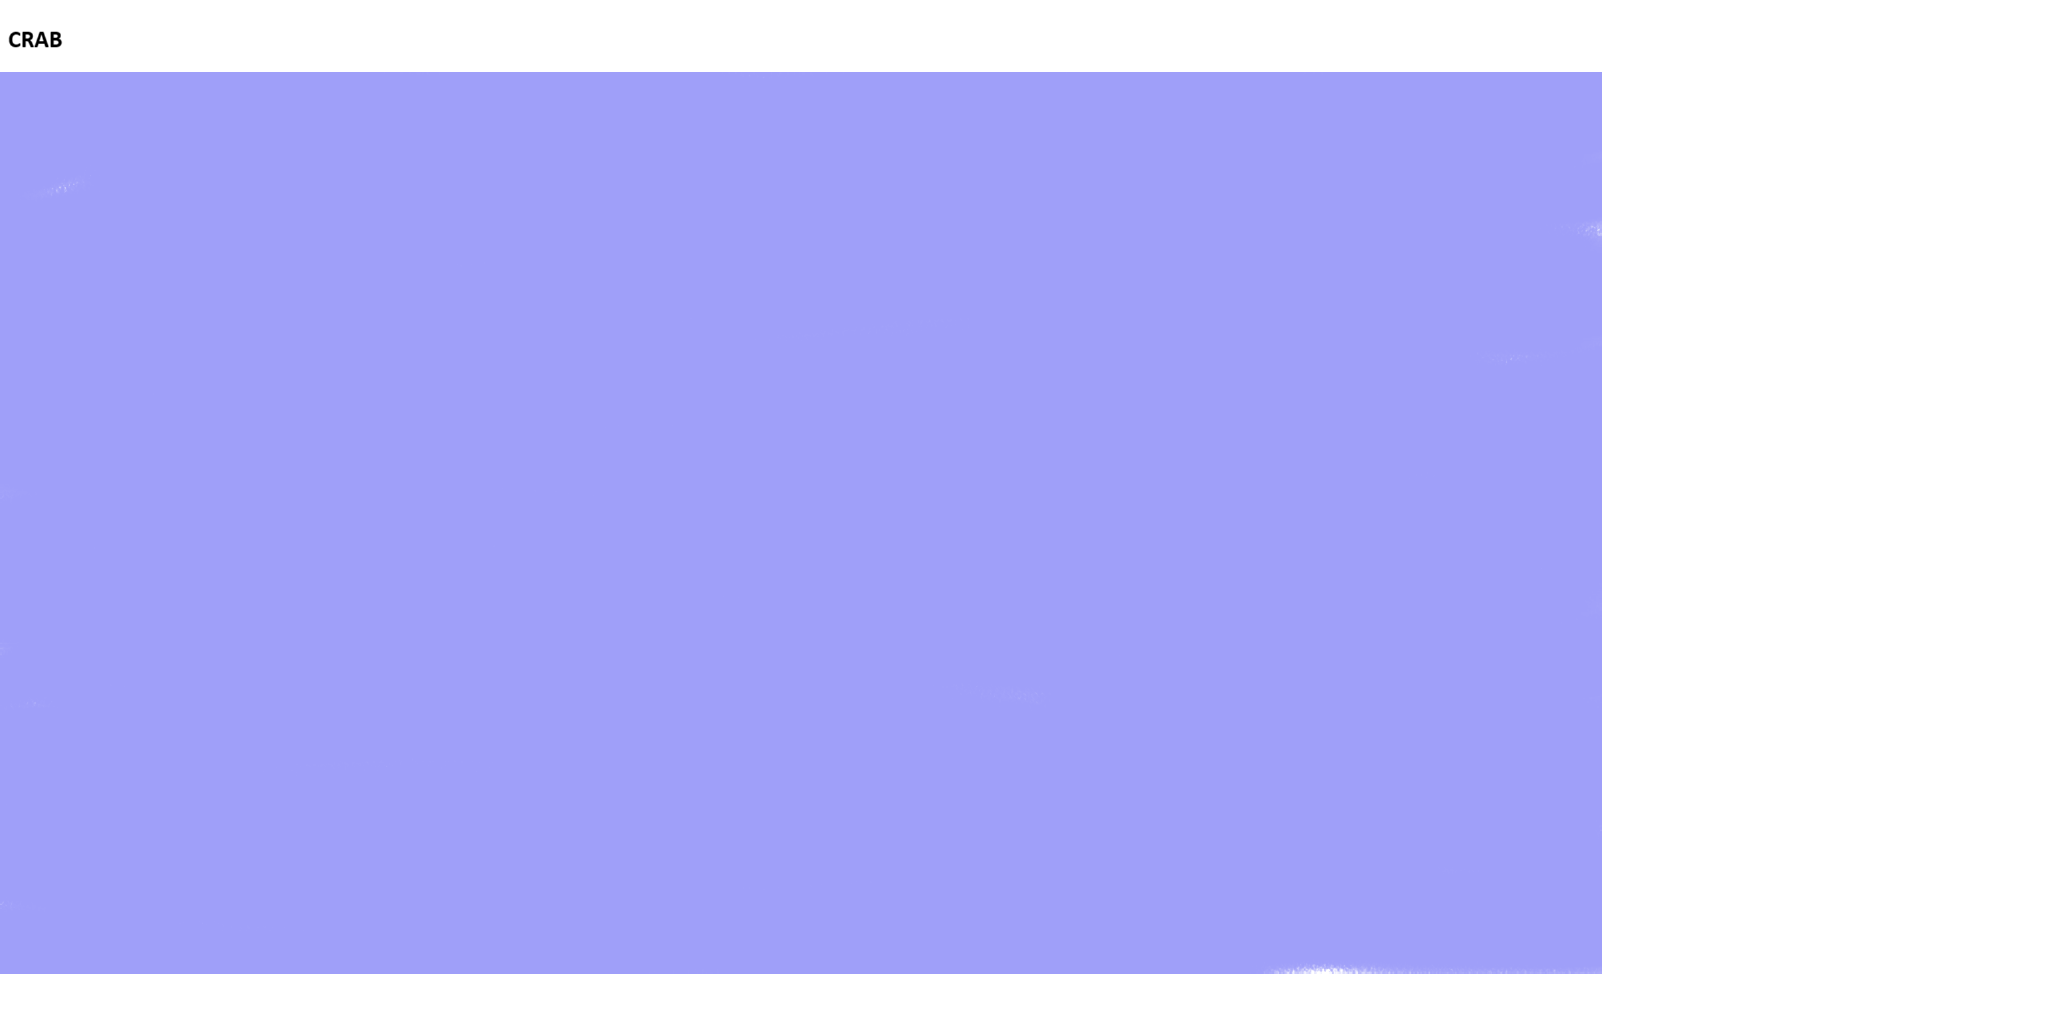
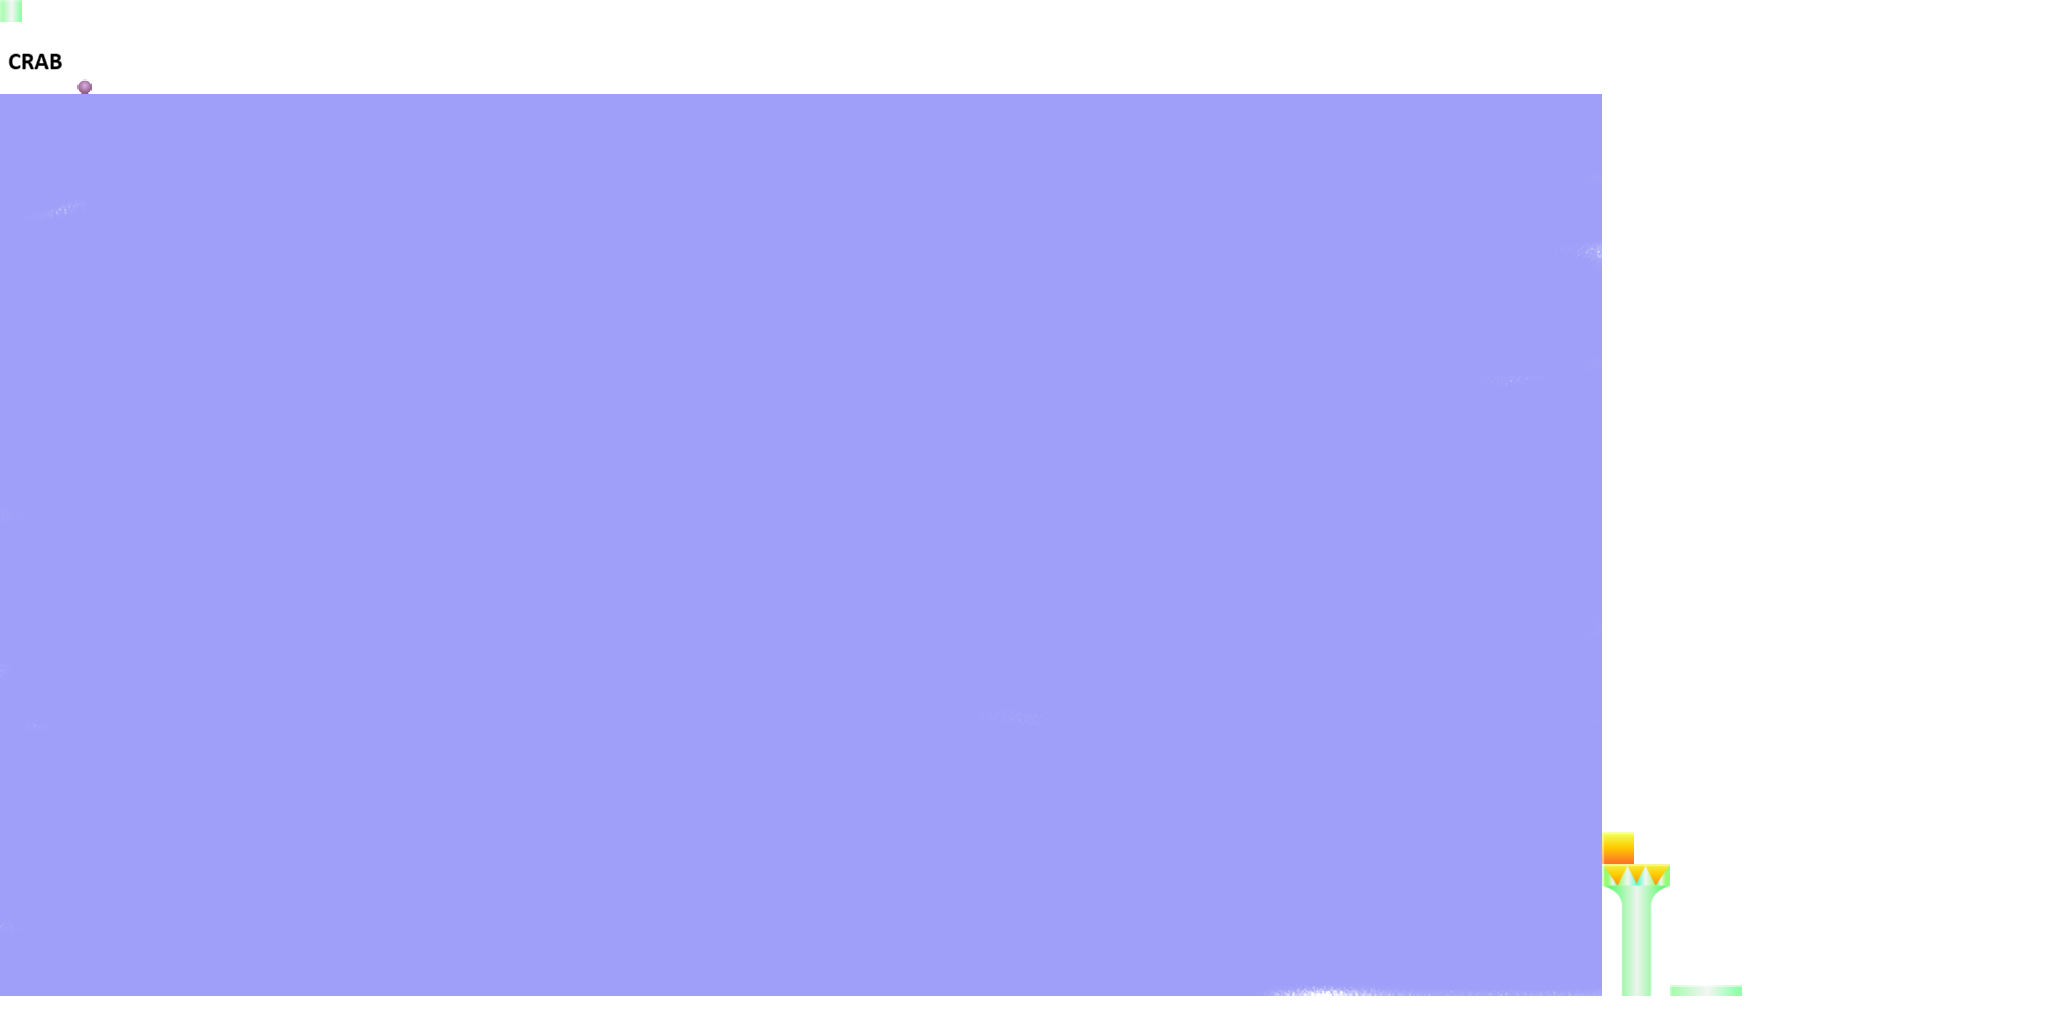
- добавил карту (надо все переделать, сначала выложить картинки, потом объединить в композиты) - добавил анимацию крабика (надо править, есть глюки)

Changed region(s): [[0.0, 0.8125, 0.8438, 1.0], [0.0, 0.0, 0.7812, 0.0938]]

diff --git a/chapter4/core/src/com/packt/flappeebee/screen/level/level1/script/PlayerScript.java b/chapter4/core/src/com/packt/flappeebee/screen/level/level1/script/PlayerScript.java
@@ -1,0 +1,168 @@
+package com.packt.flappeebee.screen.level.level1.script;
+
+import com.artemis.ComponentMapper;
+import com.badlogic.gdx.math.Vector2;
+import com.badlogic.gdx.physics.box2d.Body;
+import com.badlogic.gdx.physics.box2d.Contact;
+import com.badlogic.gdx.physics.box2d.Fixture;
+import com.github.br.gdx.simple.animation.component.SimpleAnimatorUtils;
+import com.github.br.gdx.simple.animation.fsm.FsmContext;
+import com.github.br.simple.input.InputActions;
+import com.packt.flappeebee.action.HeroActions;
+import com.packt.flappeebee.screen.level.level1.systems.components.AnimationComponent;
+import com.packt.flappeebee.screen.level.level1.systems.components.InputComponent;
+import games.rednblack.editor.renderer.components.DimensionsComponent;
+import games.rednblack.editor.renderer.components.MainItemComponent;
+import games.rednblack.editor.renderer.components.TransformComponent;
+import games.rednblack.editor.renderer.components.physics.PhysicsBodyComponent;
+import games.rednblack.editor.renderer.physics.PhysicsContact;
+import games.rednblack.editor.renderer.scripts.BasicScript;
+
+public class PlayerScript extends BasicScript implements PhysicsContact {
+
+    public static final String IDLE = "IDLE";
+    public static final String JUMP = "JUMP";
+    public static final String MOVEMENT = "MOVEMENT";
+    public static final String ATTACK = "ATTACK";
+    public static final String FLY = "FLY";
+
+    protected ComponentMapper<PhysicsBodyComponent> physicsMapper;
+    protected ComponentMapper<TransformComponent> transformMapper;
+    protected ComponentMapper<MainItemComponent> mainItemMapper;
+    protected ComponentMapper<DimensionsComponent> dimensionsMapper;
+
+    protected ComponentMapper<InputComponent> inputMapper;
+    protected ComponentMapper<AnimationComponent> animationMapper;
+
+    private PhysicsBodyComponent physicsBodyComponent;
+
+    private InputComponent inputComponent;
+    private AnimationComponent animationComponent;
+
+    private final Vector2 impulse = new Vector2(0, 0);
+    private final Vector2 speed = new Vector2(0, 0);
+
+
+    @Override
+    public void init(int item) {
+        super.init(item);
+
+        physicsBodyComponent = physicsMapper.get(item);
+        inputComponent = inputMapper.get(item);
+        animationComponent = animationMapper.get(item);
+    }
+
+    @Override
+    public void act(float delta) {
+        Vector2 linearVelocity = physicsBodyComponent.body.getLinearVelocity();
+        FsmContext animationContext = animationComponent.simpleAnimationComponent.fsmContext;
+        InputActions inputActions = inputComponent.inputActions;
+        if (inputActions.getAction(HeroActions.MOVE_LEFT)) {
+            movePlayer(HeroActions.MOVE_LEFT);
+            animationContext.update(MOVEMENT, Math.abs(linearVelocity.x));
+        }
+
+        if (inputActions.getAction(HeroActions.MOVE_RIGHT)) {
+            movePlayer(HeroActions.MOVE_RIGHT);
+            animationContext.update(MOVEMENT, Math.abs(linearVelocity.x));
+        }
+
+        if (inputActions.getAction(HeroActions.JUMP)) {
+            movePlayer(HeroActions.JUMP);
+            animationContext.update(JUMP, true);
+        }
+
+        if (linearVelocity.y < -0.3) {
+            animationContext.update(FLY, true);
+        } else if (linearVelocity.y == 0) {
+            animationContext.update(FLY, false);
+        }
+
+        if (inputActions.getAction(HeroActions.ATTACK)) {
+            animationContext.update(ATTACK, true);
+            //TODO
+        }
+
+
+        if (ATTACK.equals(animationContext.getCurrentState())) {
+            if (SimpleAnimatorUtils.isAnimationFinished(animationComponent.simpleAnimationComponent.animatorDynamicPart)) {
+                //attack = false;
+                animationContext.update(ATTACK, false);
+            }
+        }
+        if (JUMP.equals(animationContext.getCurrentState())) {
+            if (SimpleAnimatorUtils.isAnimationFinished(animationComponent.simpleAnimationComponent.animatorDynamicPart)) {
+                //jump = false;
+                animationContext.update(JUMP, false);
+                animationContext.update(FLY, true);
+            }
+        }
+    }
+
+    public void movePlayer(int direction) {
+        Body body = physicsBodyComponent.body;
+
+        speed.set(body.getLinearVelocity());
+
+        switch (direction) {
+            case HeroActions.MOVE_LEFT:
+                impulse.set(-4, speed.y);
+                break;
+            case HeroActions.MOVE_RIGHT:
+                impulse.set(4, speed.y);
+                break;
+            case HeroActions.JUMP:
+                TransformComponent transformComponent = transformMapper.get(entity);
+                impulse.set(speed.x, transformComponent.y < 4 ? 3 : speed.y);
+                break;
+        }
+
+        body.applyLinearImpulse(impulse.sub(speed), body.getWorldCenter(), true);
+    }
+
+    @Override
+    public void dispose() {
+
+    }
+
+    @Override
+    public void beginContact(int contactEntity, Fixture contactFixture, Fixture ownFixture, Contact contact) {
+        MainItemComponent mainItemComponent = mainItemMapper.get(contactEntity);
+
+//        PlayerComponent playerComponent = playerMapper.get(animEntity);
+//        if (mainItemComponent.tags.contains("platform")) {
+//            playerComponent.touchedPlatforms++;
+//        }
+
+
+    }
+
+    @Override
+    public void endContact(int contactEntity, Fixture contactFixture, Fixture ownFixture, Contact contact) {
+        MainItemComponent mainItemComponent = mainItemMapper.get(contactEntity);
+
+//        PlayerComponent playerComponent = playerMapper.get(animEntity);
+//        if (mainItemComponent.tags.contains("platform")) {
+//            playerComponent.touchedPlatforms--;
+//        }
+    }
+
+    @Override
+    public void preSolve(int contactEntity, Fixture contactFixture, Fixture ownFixture, Contact contact) {
+        TransformComponent transformComponent = transformMapper.get(this.entity);
+
+        TransformComponent colliderTransform = transformMapper.get(contactEntity);
+        DimensionsComponent colliderDimension = dimensionsMapper.get(contactEntity);
+
+        if (transformComponent.y < colliderTransform.y + colliderDimension.height) {
+            contact.setFriction(0);
+        } else {
+            contact.setFriction(1);
+        }
+    }
+
+    @Override
+    public void postSolve(int contactEntity, Fixture contactFixture, Fixture ownFixture, Contact contact) {
+
+    }
+}

diff --git a/chapter4/core/src/com/packt/flappeebee/screen/level/level1/Level1Screen.java b/chapter4/core/src/com/packt/flappeebee/screen/level/level1/Level1Screen.java
@@ -1,22 +1,25 @@
 package com.packt.flappeebee.screen.level.level1;
 
-import com.artemis.EntityEdit;
 import com.badlogic.gdx.Gdx;
 import com.badlogic.gdx.assets.AssetManager;
+import com.badlogic.gdx.graphics.Color;
 import com.badlogic.gdx.graphics.GL20;
 import com.badlogic.gdx.graphics.OrthographicCamera;
 import com.badlogic.gdx.utils.viewport.ExtendViewport;
 import com.badlogic.gdx.utils.viewport.Viewport;
 import com.github.br.gdx.simple.animation.SimpleAnimation;
 import com.github.br.gdx.simple.structure.screen.AbstractGameScreen;
+import com.github.br.simple.input.InputSystem;
 import com.packt.flappeebee.Resources;
+import com.packt.flappeebee.action.ActionMapperImpl;
 import com.packt.flappeebee.model.GameObjectFactory;
-import com.packt.flappeebee.screen.level.level1.systems.AnimationComponent;
+import com.packt.flappeebee.screen.level.level1.script.PlayerScript;
+import com.packt.flappeebee.screen.level.level1.systems.components.AnimationComponent;
 import com.packt.flappeebee.screen.level.level1.systems.AnimationSystem;
 import com.packt.flappeebee.screen.level.level1.systems.CameraSystem;
+import com.packt.flappeebee.screen.level.level1.systems.components.InputComponent;
 import games.rednblack.editor.renderer.SceneConfiguration;
 import games.rednblack.editor.renderer.SceneLoader;
-import games.rednblack.editor.renderer.components.*;
 import games.rednblack.editor.renderer.resources.AsyncResourceManager;
 import games.rednblack.editor.renderer.utils.ComponentRetriever;
 import games.rednblack.editor.renderer.utils.ItemWrapper;
@@ -30,6 +33,8 @@ public class Level1Screen extends AbstractGameScreen {
     private Viewport viewport;
 
     private com.artemis.World artemisWorld;
+
+    private InputSystem inputSystem;
 
     @Override
     public void show() {
@@ -45,7 +50,7 @@ public class Level1Screen extends AbstractGameScreen {
         //config.setRendererSystem();
         config.setResourceRetriever(asyncResourceManager);
 
-        CameraSystem cameraSystem = new CameraSystem(5, 40, 5, 6);
+        CameraSystem cameraSystem = new CameraSystem(7, 40, 4, 6);
 
         AnimationSystem animationSystem = new AnimationSystem();
         animationSystem.addAnimation(assetManager.<SimpleAnimation>get(Resources.Animations.CRAB_ANIM_FSM));
@@ -56,50 +61,40 @@ public class Level1Screen extends AbstractGameScreen {
         sceneLoader = new SceneLoader(config);
         artemisWorld = sceneLoader.getEngine();
 
-        // после new SceneLoader(config) должны быть
-
+        // после new SceneLoader(config) должны быть добавления новых компонент во фреймворк
         ComponentRetriever.addMapper(AnimationComponent.class);
-//
-//        int hero = artemisWorld.create();
-//        EntityEdit heroEdit = artemisWorld.edit(hero).add(new AnimationComponent(GameObjectFactory.createAnimationComponentCrab()));
-//        heroEdit.create(TextureRegionComponent.class);
-//        ViewPortComponent viewPortComponent = heroEdit.create(ViewPortComponent.class);
-//
-//        int pixelToWorld = asyncResourceManager.getProjectVO().pixelToWorld;
-//        viewPortComponent.viewPort = viewport;
-//        viewPortComponent.pixelsPerWU = pixelToWorld;
-//
-//        heroEdit.create(MainItemComponent.class);
-//        heroEdit.create(NodeComponent.class);
-//        heroEdit.create(CompositeTransformComponent.class);
-//        TransformComponent transformComponent = heroEdit.create(TransformComponent.class);
-//        transformComponent.x = 0;
-//        transformComponent.y = 0;
-//
-//        heroEdit.create(DimensionsComponent.class);
-//        heroEdit.create(MainItemComponent.class);
-//        LayerMapComponent layerMapComponent = heroEdit.create(LayerMapComponent.class);
-//        heroEdit.create(TintComponent.class);
-//        heroEdit.create(ZIndexComponent.class);
-//
-//        cameraSystem.setFocus(hero);
+        ComponentRetriever.addMapper(InputComponent.class);
 
         sceneLoader.loadScene("MainScene", viewport);
 
         ItemWrapper root = new ItemWrapper(sceneLoader.getRoot(), artemisWorld);
-        ItemWrapper player = root.getChild("hero");
-        int entity = player.getEntity();
-        AnimationComponent animationComponent = ComponentRetriever.create(entity, AnimationComponent.class, artemisWorld);
+        ItemWrapper hero = root.getChild("hero");
+
+        int heroEntity = hero.getEntity();
+        AnimationComponent animationComponent = ComponentRetriever.create(heroEntity, AnimationComponent.class, artemisWorld);
         animationComponent.simpleAnimationComponent = GameObjectFactory.createAnimationComponentCrab();
+
+        PlayerScript playerScript = new PlayerScript();
+        hero.addScript(playerScript);
+
+        cameraSystem.setFocus(heroEntity);
+
+        // InputSystem
+        inputSystem = new InputSystem(5, new ActionMapperImpl());
+        InputComponent inputComponent = ComponentRetriever.create(heroEntity, InputComponent.class, artemisWorld);
+        inputComponent.inputActions = inputSystem.getInputActions();
+        Gdx.input.setInputProcessor(inputSystem.getInputProcessor());
     }
 
     @Override
     public void render(float delta) {
-        Gdx.gl.glClearColor(0, 0, 0, 0);
+        Gdx.gl.glClearColor(Color.BLACK.r, Color.BLACK.g, Color.BLACK.b, Color.BLACK.a);
         Gdx.gl.glClear(GL20.GL_COLOR_BUFFER_BIT);
-
         viewport.apply();
+
+        inputSystem.update(delta);
         artemisWorld.process();
+        inputSystem.reset();
     }
 
     @Override

diff --git a/chapter4/libgdx-simple-input/src/main/java/com/github/br/simple/input/InputSystem.java b/chapter4/libgdx-simple-input/src/main/java/com/github/br/simple/input/InputSystem.java
@@ -16,8 +16,12 @@ public class InputSystem implements Disposable {
     public InputSystem(int actionsSize, ActionMapper actionMapper) {
         this.actionMapper = actionMapper;
         inputActions = new InputActions(actionsSize);
-        controllerProxy = new ControllerProxy();
+        controllerProxy = ControllerProxy.INSTANCE;
         inputProcessor = new InputProcessorImpl();
+    }
+
+    public InputActions getInputActions() {
+        return inputActions;
     }
 
     public InputProcessor getInputProcessor() {

diff --git a/chapter4/core/src/com/packt/flappeebee/screen/level/level1/systems/AnimationSystem.java b/chapter4/core/src/com/packt/flappeebee/screen/level/level1/systems/AnimationSystem.java
@@ -7,6 +7,7 @@ import com.badlogic.gdx.Gdx;
 import com.badlogic.gdx.utils.GdxRuntimeException;
 import com.github.br.gdx.simple.animation.SimpleAnimation;
 import com.github.br.gdx.simple.animation.SimpleAnimationSystem;
+import com.packt.flappeebee.screen.level.level1.systems.components.AnimationComponent;
 import games.rednblack.editor.renderer.components.TextureRegionComponent;
 
 @All({AnimationComponent.class, TextureRegionComponent.class})

diff --git a/chapter4/core/src/com/packt/flappeebee/screen/level/level1/systems/components/InputComponent.java b/chapter4/core/src/com/packt/flappeebee/screen/level/level1/systems/components/InputComponent.java
@@ -1,0 +1,8 @@
+package com.packt.flappeebee.screen.level.level1.systems.components;
+
+import com.artemis.Component;
+import com.github.br.simple.input.InputActions;
+
+public class InputComponent extends Component {
+    public InputActions inputActions;
+}

diff --git a/chapter4/core/src/com/packt/flappeebee/screen/level/level1/systems/components/AnimationComponent.java b/chapter4/core/src/com/packt/flappeebee/screen/level/level1/systems/components/AnimationComponent.java
@@ -1,4 +1,4 @@
-package com.packt.flappeebee.screen.level.level1.systems;
+package com.packt.flappeebee.screen.level.level1.systems.components;
 
 import com.artemis.Component;
 import com.github.br.gdx.simple.animation.component.SimpleAnimationComponent;

diff --git a/chapter4/libgdx-simple-input/src/main/java/com/github/br/simple/input/controller/ControllerProxy.java b/chapter4/libgdx-simple-input/src/main/java/com/github/br/simple/input/controller/ControllerProxy.java
@@ -96,7 +96,7 @@ public class ControllerProxy implements Controller {
         target.removeListener(listener);
     }
 
-    public ControllerProxy() {
+    private ControllerProxy() {
         this(Controllers.getCurrent());
     }
 

diff --git a/chapter4/core/src/com/packt/flappeebee/HappyCrabSimpleGame.java b/chapter4/core/src/com/packt/flappeebee/HappyCrabSimpleGame.java
@@ -31,7 +31,7 @@ public class HappyCrabSimpleGame extends AbstractSimpleGame<UserFactoryImpl> {
 
     @Override
     public void create() {
-        Box2D.init();
+        //Box2D.init();
         super.create();
     }
 
